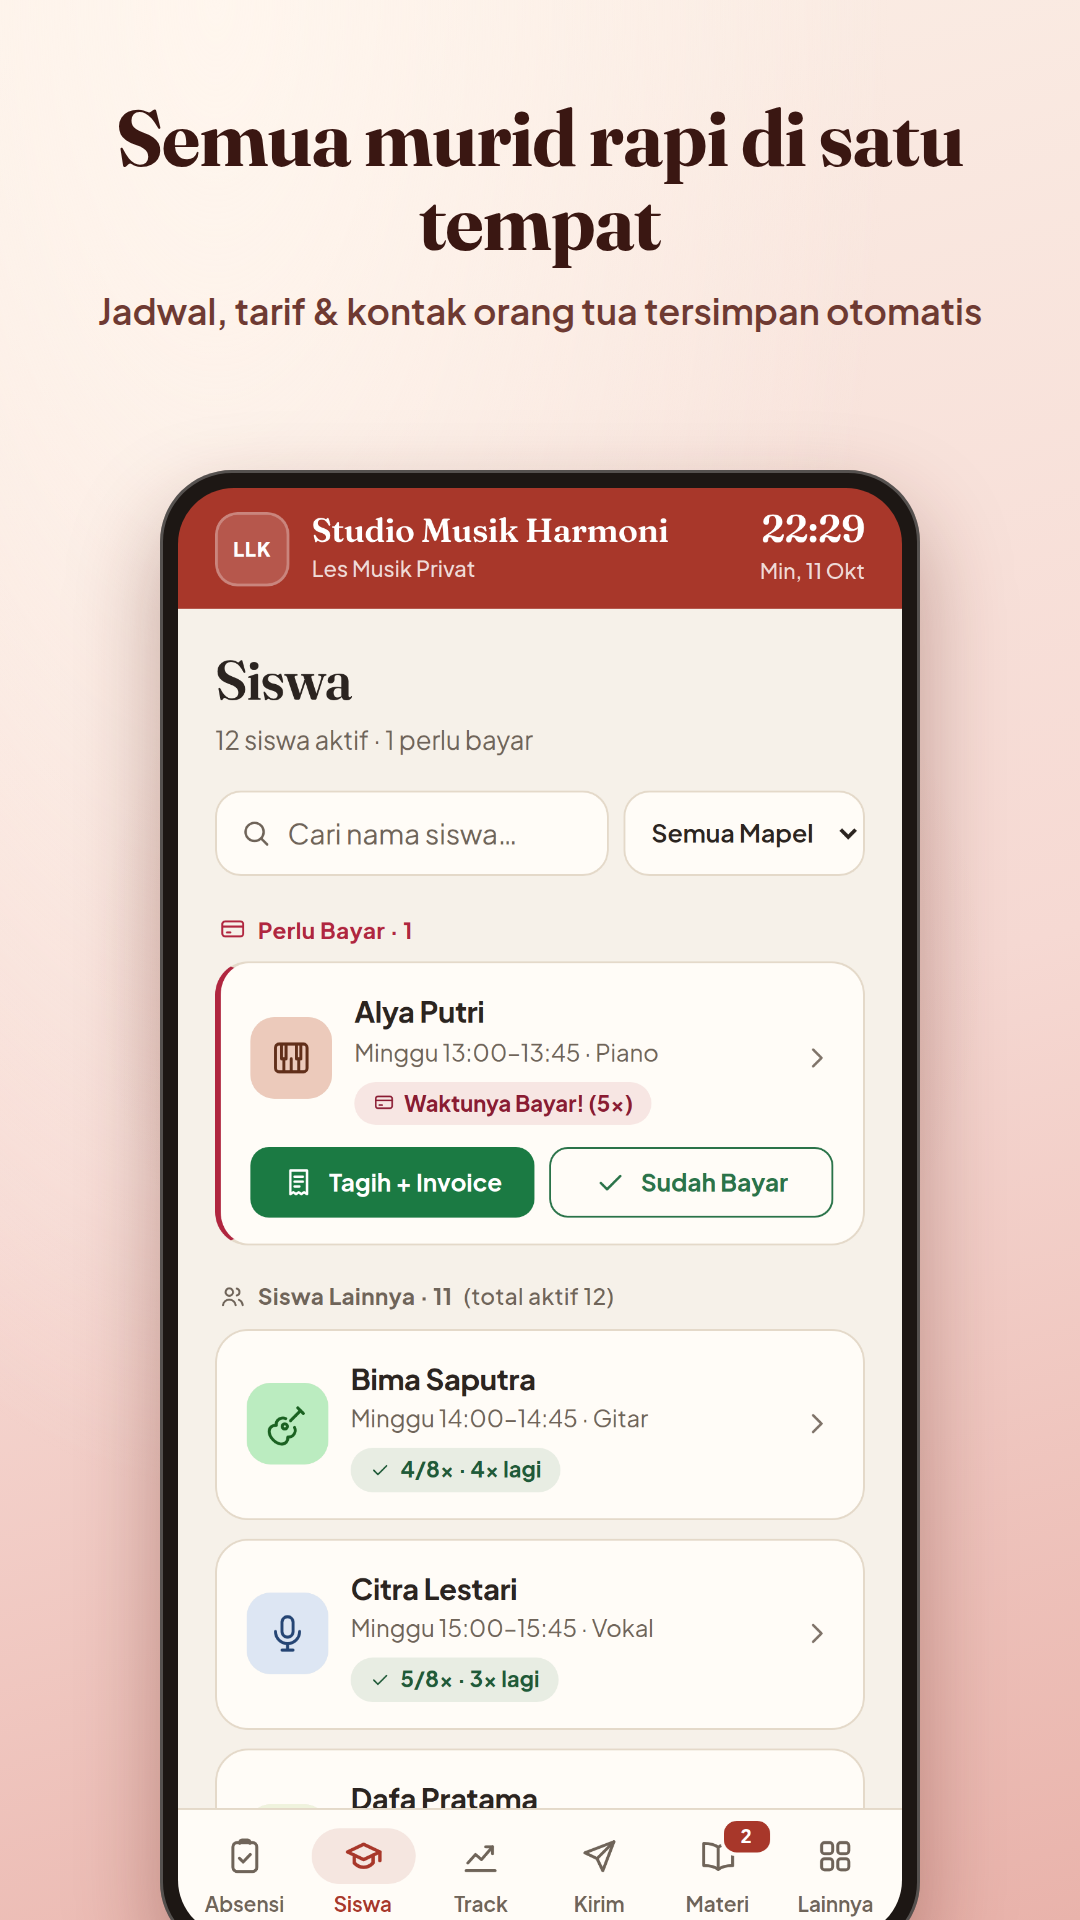
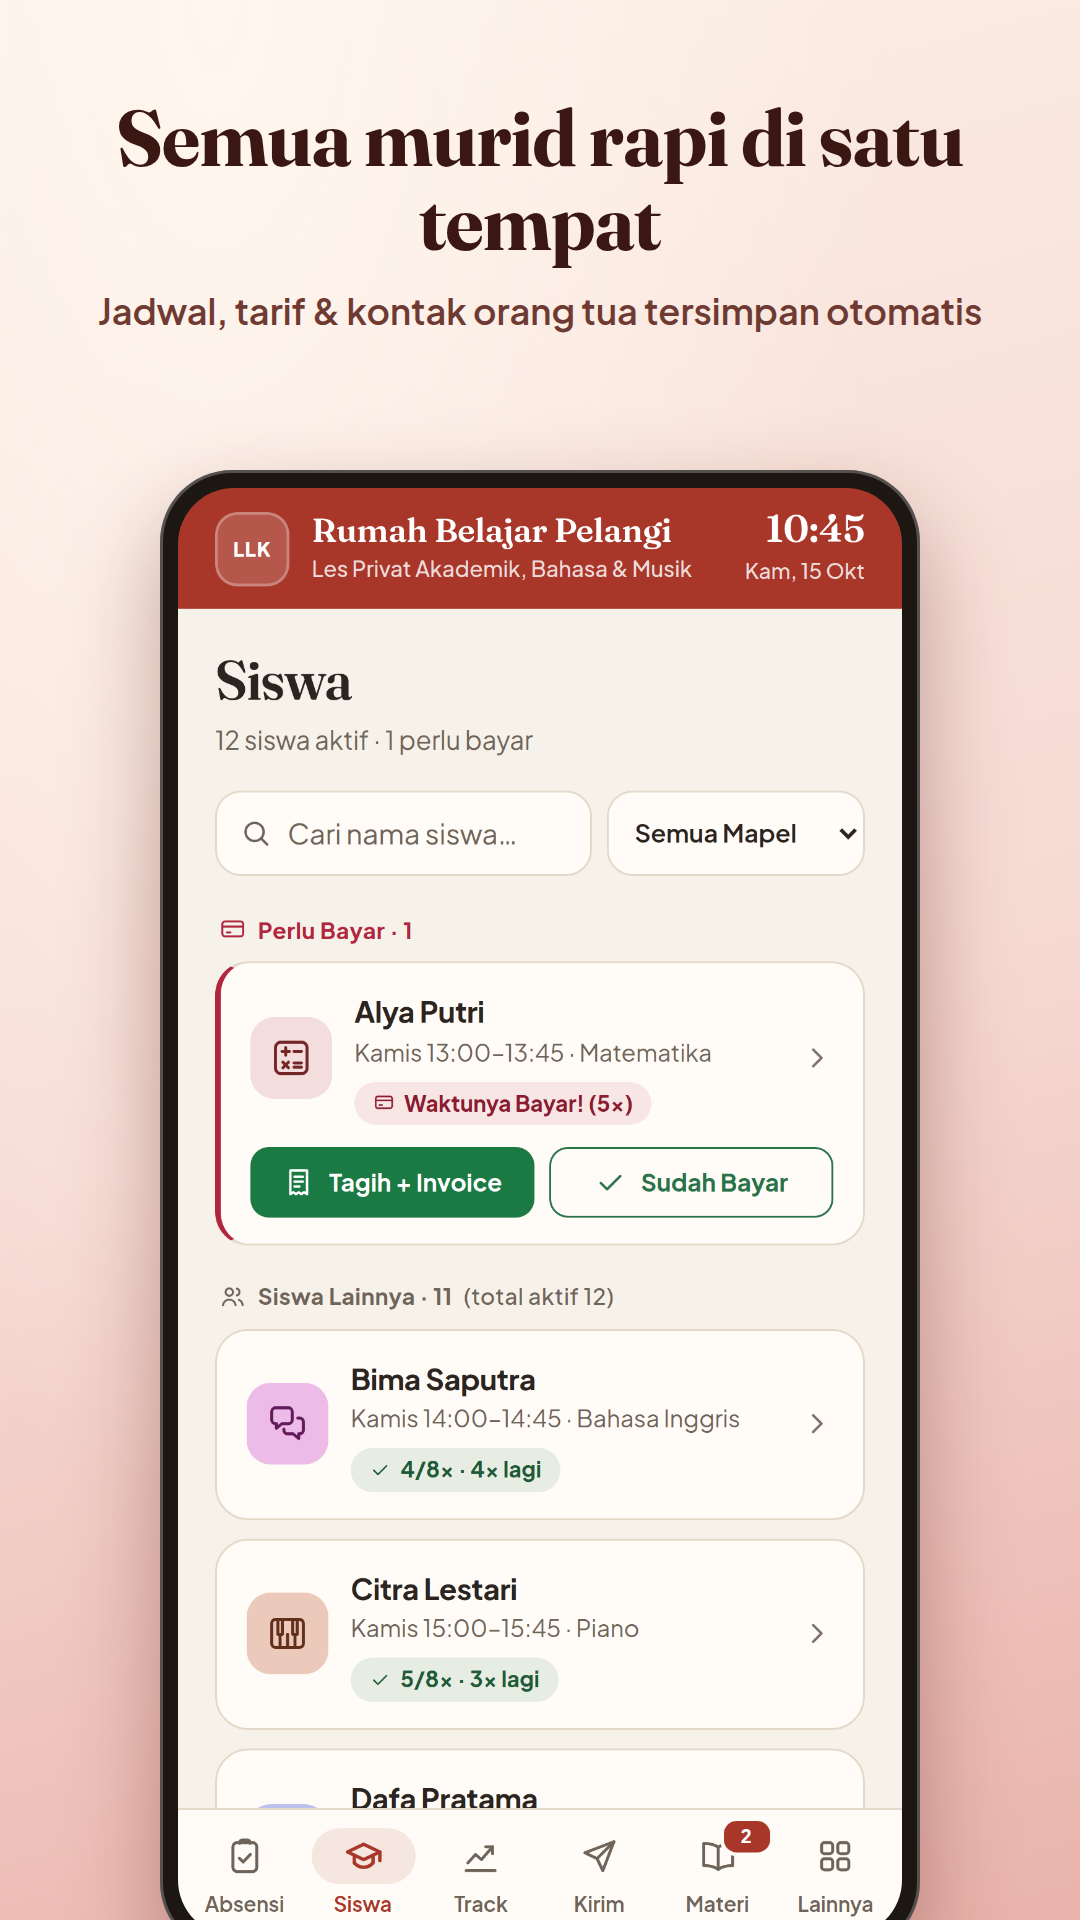
Store: screenshot Play Store pakai murid campuran mapel (bukan hanya musik)
Claude-Session: https://claude.ai/code/session_01GGTGvsDEm9RwTYu2EtJEP2

diff --git a/PROGRESS.md b/PROGRESS.md
@@ -86,6 +86,7 @@ Tahapan:
 - **Tahap 0 — Persiapan (bisa mulai sekarang, gratis):**
   - Claude: deteksi aplikasi dibuka dari Play (TWA) → sembunyikan pembayaran Midtrans di aplikasi Play (penguji pakai trial 31 hari); screenshot Play Store baru (desain sekarang, 1080×1920) + feature graphic 1024×500; draf teks listing (judul, deskripsi singkat ≤80 huruf, deskripsi panjang) & jawaban Data Safety.
   - ✅ **Selesai 11 Okt 2026:** (1) aplikasi Play: tombol beli memunculkan "Segera hadir di aplikasi" (`llkPlayPayNotice`, di awal `mulaiLangganan`), halaman pilih peran dilewati; deteksi Play = referrer `android-app://` **atau** alamat awal `?src=play` (⚠ saat build PWABuilder isi **Start URL `/?src=play`**). (2) Bahan Play Store di `store/play/`: 6 screenshot berbingkai 1080×1920, feature graphic 1024×500, ikon 512, dan `LISTING.md` (judul, deskripsi singkat & panjang, pengaturan, draf Data Safety). Dibuat ulang dengan `node store/make-assets.cjs` (data contoh fiktif). (3) **Panduan rilis lengkap untuk pemilik** (bisa dikerjakan sendiri bila sesi terputus): `store/play/PANDUAN-RILIS.md` — PWABuilder (isian lengkap, Start URL `/?src=play`), Play Console Internal testing, sidik jari Play App Signing → `assetlinks.json`, closed testing 12×14 hari, isian listing, Production.
+  - ✅ **15 Okt 2026:** screenshot & feature graphic Play Store dibuat ulang dengan murid contoh **campuran mapel** (Matematika, Bahasa Inggris, Piano, Mengaji, Calistung, Fisika, Gitar, Bahasa Jepang, Coding, Vokal), lembaga contoh "Rumah Belajar Pelangi" — atas permintaan pemilik supaya tidak terkesan khusus les musik.
   - Pemilik: kumpulkan ≥12 penguji (Gmail aktif, mau pasang & buka aplikasi selama 14 hari) — guru les, keluarga, teman; siapkan 1 akun Google khusus untuk reviewer Google (isian "App access").
 - **✅ Status 14 Okt 2026:** akun Play Console terverifikasi; aplikasi **"LesLesanKu – Absensi Les"** (`com.leslesanku.app`) dibuat; AAB versi **1 (1.0.0.0)** dari PWABuilder (Start URL `/?src=play`, kunci lama 09/09/2026) terbit di **Pengujian internal** (daftar penguji "Tim LLK": betharani.w, gitarsaktipol). Sidik jari **kunci penandatanganan aplikasi Play** `BE:51:75:…:AB:4F` ditambahkan ke `.well-known/assetlinks.json` (kunci upload `CA:67:8F:…:8B:1B` tetap). **15 Okt 2026: terpasang & lolos uji di HP** (akun penguji gitarsaktipol) — langsung login V1, tanpa bilah alamat (assetlinks OK), tombol beli → "Segera hadir di aplikasi" (bukan Midtrans). Catatan: rilis pertama baru muncul di Play Store beberapa jam setelah dipublikasikan (malam pertama "Item tidak ditemukan"). Ikon Play Store dipilih **opsi A** (lingkaran merah timbul berkilau, latar krem; `store/make-icon.cjs`) → `store/play/app-icon-512.png`; ikon di HP (manifest) belum diganti — ikut build PWABuilder berikutnya bila diminta. Berikutnya: isi Store listing & Data Safety (bahan di `store/play/`), closed testing 12×14 hari, Play Billing.
 - **Tahap 1 — Akun Play Console:** daftar akun pribadi ($25), verifikasi identitas & nomor HP (bisa beberapa hari). **Status 11 Okt 2026:** akun "FerTune Studio" (pribadi) sudah dibuat, menunggu verifikasi identitas & nomor HP.
